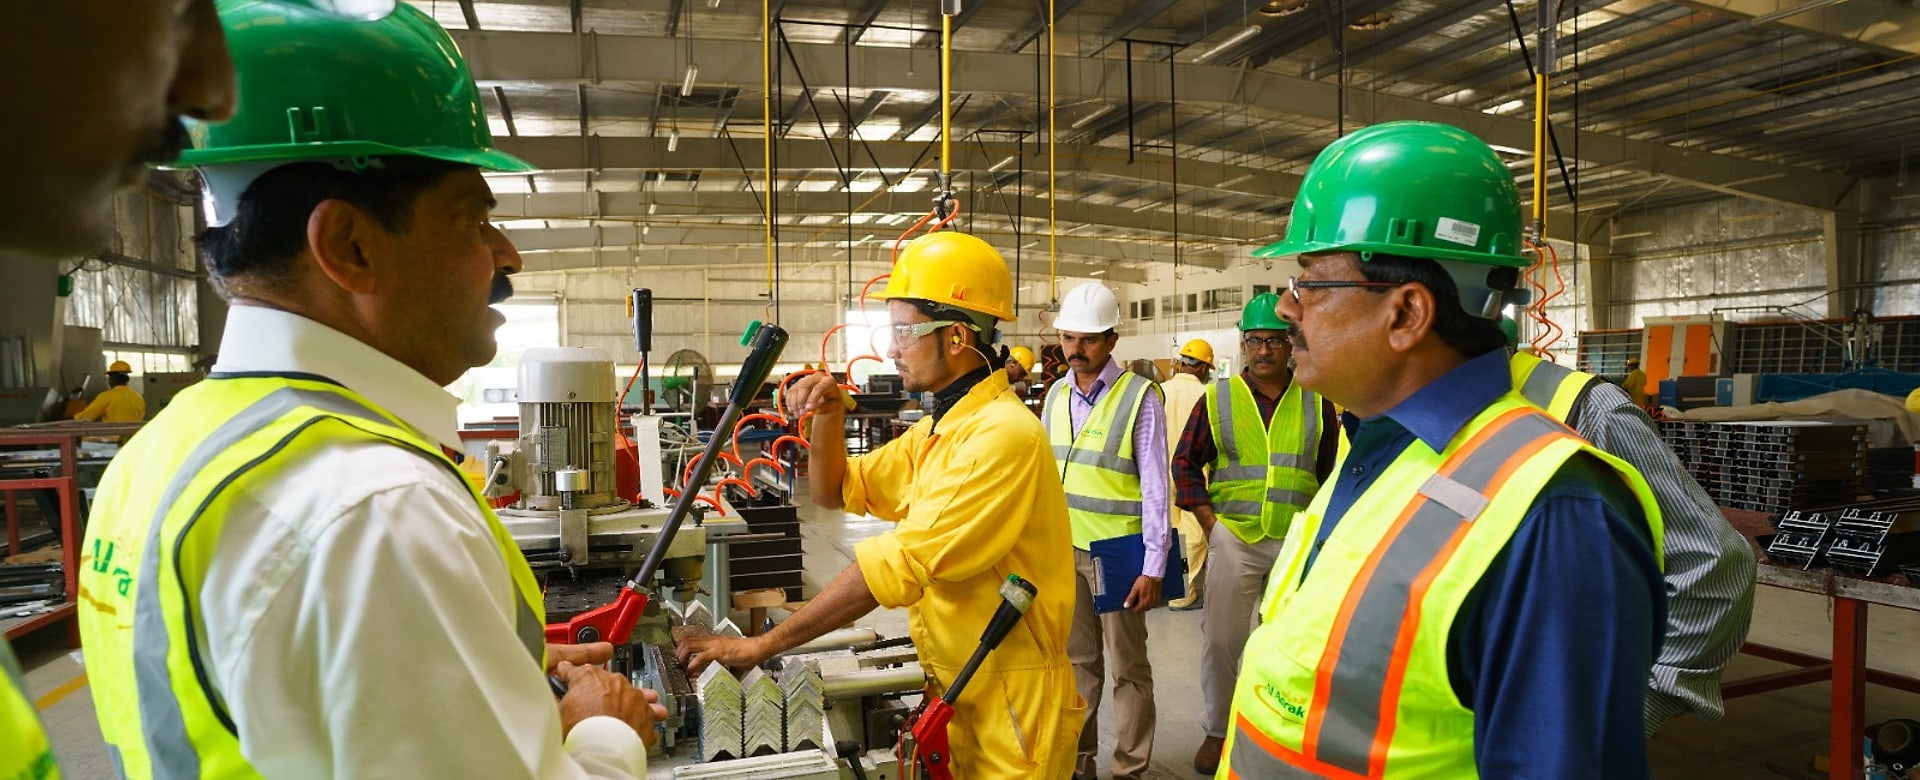
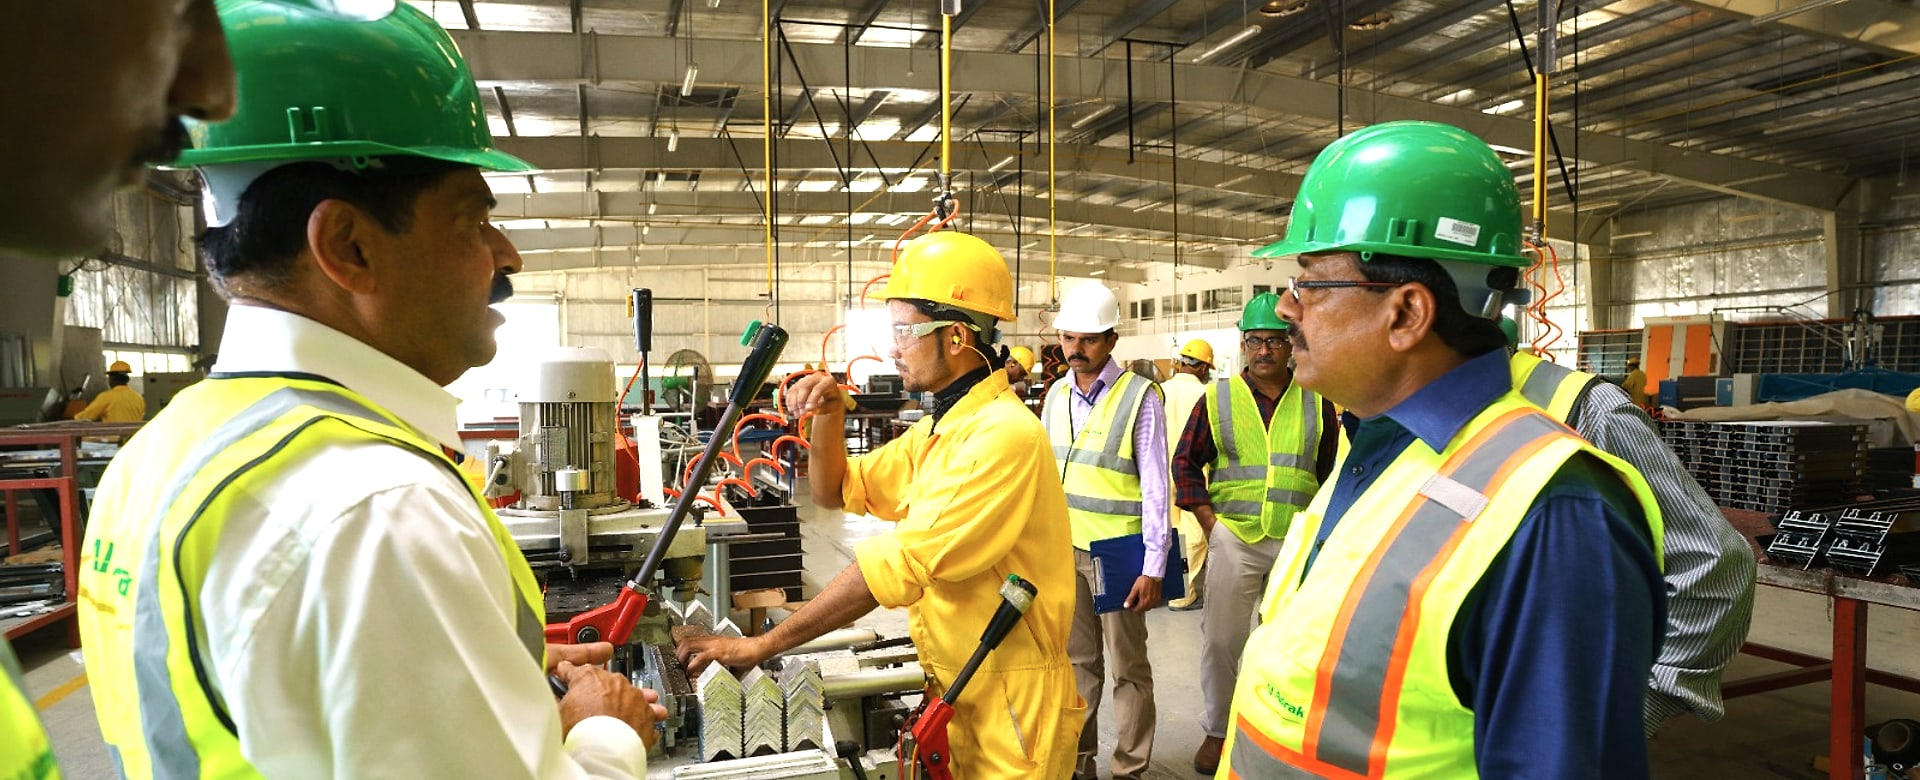
Brighten the HSE hero, by lifting the photograph rather than thinning the veil
The frame is underexposed as delivered — median luma 101 of 255, the whole
left half in shadow — so the hero read as dark before the scrim went over it
at all. Lifting the photograph 18% is the honest fix. Simply thinning the
veil would have bought the brightness out of the text contrast, and at 0.72
flat there was none to spare.

With the photograph carrying its own light the veil can come down to 0.62,
and the lead paragraph goes from cream/90 to solid cream — that 10% of
opacity was costing real contrast which the scrim was then paying for in
darkness. Both pieces of type now sit at 4.88:1 against AA floors of 3.0 for
the heading and 4.5 for the lead, and the hero reads 47 -> 63 of 255, about a
third brighter.

The scrim is fitted to a text bound of 56%, not the 43% this reads at 1920:
`.shell` pads with 3vw, so a 1440 laptop pushes the same max-w-3xl heading
proportionally further across the picture. That is the case it has to survive.

Known and NOT introduced here: the header nav is cream/70 over an unscrimmed
photograph at its right-hand end and measures about 2.4:1 on this hero, well
under AA. It reads that way over every photographic hero on the site, because
it is the header component's own condition; this change moves it 2.50 -> 2.41.
Worth a separate fix.

diff --git a/site/app/hse/page.tsx b/site/app/hse/page.tsx
@@ -85,11 +85,11 @@ export default function HsePage() {
               reaches. Measured, every from/via pair either dropped the worst
               glyph background under AA there (ink/85 still only reached
               3.97:1) or washed the CED out on the right.
-              Holding 72% flat across the text band and clearing between it
-              and him does both jobs: 7.06:1 at the worst pixel, and 6% ink
+              Holding 62% flat across the text band and clearing between it
+              and him does both jobs: 4.88:1 at the worst pixel, and 5% ink
               over the CED himself — he is the reason for the picture, so he
               stays unveiled. */}
-          <div className="absolute inset-0 bg-[linear-gradient(to_right,rgba(10,15,12,0.72)_0%,rgba(10,15,12,0.72)_55%,rgba(10,15,12,0)_82%)]" />
+          <div className="absolute inset-0 bg-[linear-gradient(to_right,rgba(10,15,12,0.62)_0%,rgba(10,15,12,0.62)_56%,rgba(10,15,12,0)_82%)]" />
           {/* Vertical: a dark top for the fixed header's cream nav to read
               against, and a cream foot so the hero dissolves into the page
               rather than ending on a hard line.
@@ -105,7 +105,7 @@ export default function HsePage() {
             <h1 className="font-display text-cream text-5xl md:text-7xl leading-[1.02] max-w-3xl">
               {hse.title}
             </h1>
-            <p className="text-cream/90 font-light text-lg md:text-xl leading-relaxed mt-8 max-w-2xl">
+            <p className="text-cream font-light text-lg md:text-xl leading-relaxed mt-8 max-w-2xl">
               {hse.lead}
             </p>
           </Reveal>
